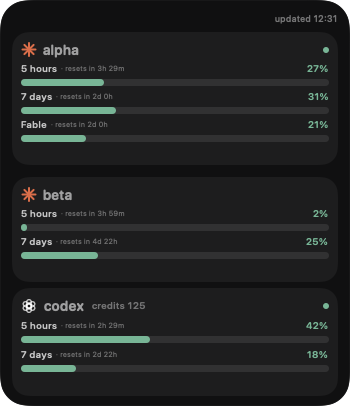
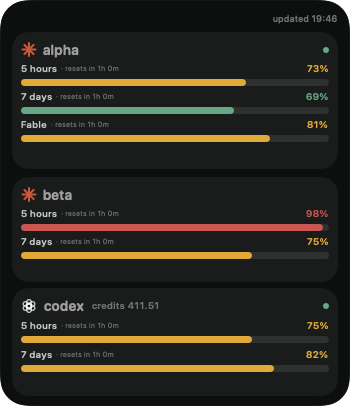
fix: equalize provider card spacing

diff --git a/Tests/QuotaOrbitsUITestRunner/QuotaPresentationTests.swift b/Tests/QuotaOrbitsUITestRunner/QuotaPresentationTests.swift
@@ -1,6 +1,8 @@
+import AppKit
 import Foundation
 import QuotaOrbitsCore
-@_spi(Testing) import QuotaOrbitsUI
+import SwiftUI
+@testable @_spi(Testing) import QuotaOrbitsUI
 
 enum QuotaPresentationTests {
     private static let now = Date(timeIntervalSince1970: 1_000_000)
@@ -164,6 +166,13 @@ enum QuotaPresentationTests {
                 ),
                 250
             )
+        },
+        TestCase(name: "QuotaPresentationTests.testRenderedCardsHaveUniformVisualGaps") {
+            for visualStyle in [QuotaVisualStyle.bars, .orbits] {
+                let gaps = try await renderedCardGaps(visualStyle: visualStyle)
+                try TestSupport.assertEqual(gaps.count, 2)
+                try TestSupport.assertTrue(abs(gaps[0] - gaps[1]) <= 2)
+            }
         },
         TestCase(
             name: "QuotaPresentationTests.testDashboardProjectionNeverRetainsIdentifiersOrErrors"
@@ -452,5 +461,113 @@ enum QuotaPresentationTests {
             weekly: window(remaining: remaining),
             creditsBalance: Decimal(string: "411.5127706250")
         )
+    }
+
+    @MainActor
+    private static func renderedCardGaps(visualStyle: QuotaVisualStyle) throws -> [Int] {
+        let scoped = ClaudeScopedQuota(
+            label: "Fable",
+            window: window(remaining: 19)
+        )
+        let snapshot = QuotaSnapshot(
+            claude: .available(
+                [
+                    account(
+                        id: "one",
+                        alias: "alpha",
+                        active: true,
+                        inner: 27,
+                        outer: 31,
+                        scoped: [scoped]
+                    ),
+                    account(
+                        id: "two",
+                        alias: "beta",
+                        active: false,
+                        inner: 2,
+                        outer: 25
+                    ),
+                ],
+                updatedAt: now
+            ),
+            codex: .available(codex(remaining: 18), updatedAt: now),
+            lastCycleStartedAt: now
+        )
+        let view = DashboardContentView(
+            presentation: DashboardPresentation(snapshot: snapshot),
+            displayMode: .used,
+            visualStyle: visualStyle,
+            claudeSourceMode: .cswap,
+            actions: DashboardActions(
+                isPinned: true,
+                refreshNow: {},
+                togglePinned: {},
+                openSettings: {},
+                quit: {}
+            ),
+            fixedNow: now
+        )
+        let hostingView = NSHostingView(rootView: view)
+        hostingView.frame = NSRect(
+            origin: .zero,
+            size: NSSize(
+                width: DashboardLayout.panelWidth,
+                height: DashboardLayout.panelHeight(for: visualStyle)
+            )
+        )
+        hostingView.layoutSubtreeIfNeeded()
+
+        guard let bitmap = hostingView.bitmapImageRepForCachingDisplay(in: hostingView.bounds)
+        else {
+            throw AssertionFailure(message: "Could not create dashboard bitmap")
+        }
+        hostingView.cacheDisplay(in: hostingView.bounds, to: bitmap)
+
+        let cardRuns = contiguousRuns(
+            in: 0..<bitmap.pixelsHigh,
+            where: { y in
+                guard
+                    let cardColor = bitmap.colorAt(x: 175, y: y),
+                    let panelColor = bitmap.colorAt(x: 8, y: y)
+                else { return false }
+                return luminance(cardColor) - luminance(panelColor) > 0.015
+            }
+        ).filter { $0.count > 20 }
+
+        guard cardRuns.count == 3 else {
+            throw AssertionFailure(message: "Expected 3 rendered card runs, got \(cardRuns)")
+        }
+        return zip(cardRuns, cardRuns.dropFirst()).map { current, next in
+            next.lowerBound - current.upperBound - 1
+        }
+    }
+
+    private static func contiguousRuns(
+        in values: Range<Int>,
+        where predicate: (Int) -> Bool
+    ) -> [ClosedRange<Int>] {
+        var runs: [ClosedRange<Int>] = []
+        var start: Int?
+        for value in values {
+            if predicate(value) {
+                if start == nil {
+                    start = value
+                }
+            } else if let runStart = start {
+                runs.append(runStart...(value - 1))
+                start = nil
+            }
+        }
+        if let start {
+            runs.append(start...(values.upperBound - 1))
+        }
+        return runs
+    }
+
+    private static func luminance(_ color: NSColor) -> CGFloat {
+        guard let rgb = color.usingColorSpace(.deviceRGB) else { return 0 }
+        return rgb.redComponent * 0.2126
+            + rgb.greenComponent * 0.7152
+            + rgb.blueComponent * 0.0722
     }
 }

diff --git a/Sources/QuotaOrbitsUI/Views/DashboardView.swift b/Sources/QuotaOrbitsUI/Views/DashboardView.swift
@@ -194,13 +194,6 @@ struct DashboardContentView: View {
                             visualStyle: visualStyle,
                             fixedNow: fixedNow
                         )
-                        .frame(
-                            minHeight: DashboardLayout.claudeAccountHeight(
-                                scopedCount: account.scoped.count,
-                                visualStyle: visualStyle
-                            ),
-                            alignment: .top
-                        )
                     }
                 }
             }

diff --git a/Sources/QuotaOrbitsUI/Views/ClaudeAccountCard.swift b/Sources/QuotaOrbitsUI/Views/ClaudeAccountCard.swift
@@ -66,7 +66,14 @@ struct ClaudeAccountCard: View {
             statusLine(now: now)
         }
         .padding(9)
-        .frame(maxWidth: .infinity, alignment: .top)
+        .frame(
+            height: DashboardLayout.claudeAccountHeight(
+                scopedCount: account.scoped.count,
+                visualStyle: visualStyle
+            ),
+            alignment: .top
+        )
+        .frame(maxWidth: .infinity)
         .background(
             RoundedRectangle(cornerRadius: 17, style: .continuous)
                 .fill(Color.white.opacity(0.055))
